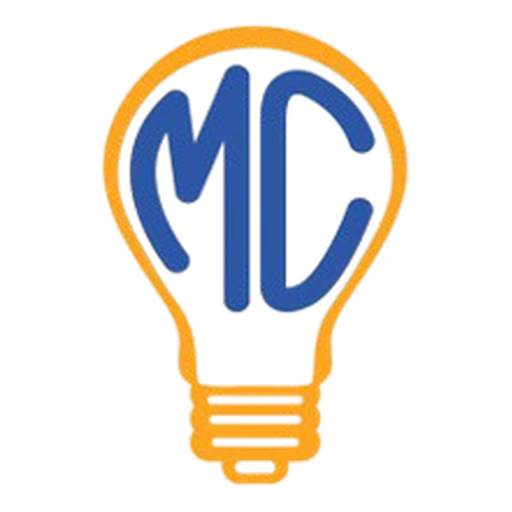
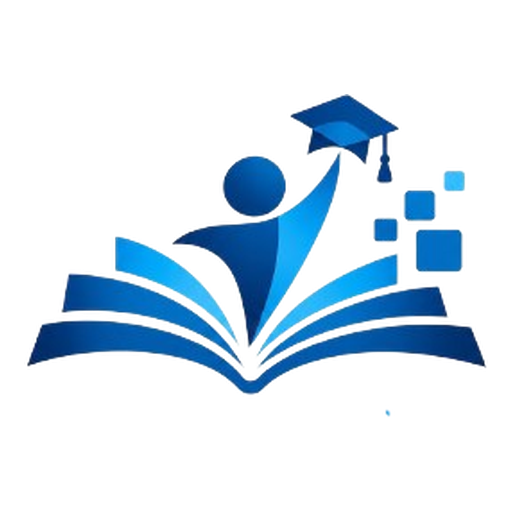
feat: implemtando compomentes da empresa

diff --git a/src/app/page.tsx b/src/app/page.tsx
@@ -14,14 +14,44 @@ const clients = [
   "Unyleya", "Unigranrio", "Faculeste", "Uniúnica",
 ];
 
+const leaders = [
+  {
+    name: "Profa. Me. Sílvia Cristina da Silva",
+    role: "CEO",
+    image: "/silvia-cristina.png",
+    alt: "Profa. Me. Sílvia Cristina da Silva",
+    lattes: "http://lattes.cnpq.br/5911573541377266",
+    summary: "Mestre em Educação, Ambiente e Sociedade pela UNIFAE e especialista em Docência do Ensino Superior, Direito/Educação e Educação a Distância.",
+    biography: "Participou de atividades docentes e discentes no Mestrado em Análise do Discurso da Universidade Federal de Buenos Aires (UBA). É especialista pela Faculdade Campos Elíseos (FCE) e graduada em Ciências Jurídicas e Sociais pela UNIFEOB.",
+  },
+  {
+    name: "Nathalia Ellen Silva Bezerra",
+    role: "Assistente",
+    image: "/nathalia-ellen.png",
+    alt: "Nathalia Ellen Silva Bezerra",
+    lattes: "http://lattes.cnpq.br/2051168044689617",
+    summary: "Mestre em Administração pela UFCG, especialista em Direito do Trabalho e Previdenciário e bacharela em Direito pela UEPB.",
+    biography: "É especialista em Direito do Trabalho e Previdenciário pelo Centro Universitário de Patos. Atuou como conciliadora jurídica no CEJUSC V do Tribunal de Justiça da Paraíba, em Campina Grande. Também atua como advogada e integrou a Comissão de Direito Previdenciário da OAB em Campina Grande. Tem interesse nas áreas de Direito Ambiental, Direitos Humanos, Direito Civil, do Trabalho, do Consumidor, Previdenciário, Constitucional e Administrativo.",
+  },
+  {
+    name: "Ellen Thaynna Mara Delgado Brandão",
+    role: "Assistente",
+    image: "/ellen-thaynna.png",
+    alt: "Ellen Thaynna Mara Delgado Brandão",
+    lattes: "http://lattes.cnpq.br/7271695351178376",
+    summary: "Professora conteudista, graduada em Direito, pós-graduada em Docência do Ensino Superior e Gestão Escolar, com experiência em educação e produção de videoaulas.",
+    biography: "Graduou-se em Direito pela Faculdade de Ciências Sociais Aplicadas em 2017, concluiu pós-graduações em Docência do Ensino Superior e Gestão Escolar em 2026 e iniciou Licenciatura em Letras — Português no mesmo ano. Atua com ênfase em Direito Penal, Previdenciário, Constitucional, Trabalhista, Administrativo e Empresarial, além da Educação. Desde 2022, participa de projetos de gravação de videoaulas para cursos de pós-graduação, incluindo Unyleya, Faculeste e PetroShore Compliance Business School. Estuda Inteligência Artificial continuamente desde 2024, com interesse em seus impactos nos processos educacionais, profissionais e organizacionais. Também se dedica à gestão e ao desenvolvimento de pessoas.",
+  },
+];
+
 export default function HomePage() {
   return (
     <>
       <div className="topbar"><div className="container topbar-inner"><span className="topbar-desktop"><i /> Produção de conteúdo educacional desde 2016</span><span className="topbar-mobile"><i /> Conteúdo educacional desde 2016</span><span className="topbar-location">São João da Boa Vista · SP</span></div></div>
       <header className="site-header">
         <div className="container header-inner">
-          <a href="#inicio" className="brand" aria-label="Modular Criativo, início"><Image src="/logo-modular-criativo.png" alt="Modular Criativo" width={500} height={288} priority /></a>
-          <nav aria-label="Navegação principal"><a href="#sobre">Quem somos</a><a href="#materiais">O que produzimos</a><a href="#parceiros">Parceiros</a></nav>
+          <a href="#inicio" className="brand" aria-label="Modular Criativo, início"><Image src="/logo-principal.png" alt="Modular Criativo" width={414} height={216} priority /></a>
+          <nav aria-label="Navegação principal"><a href="#sobre">Quem somos</a><a href="#materiais">O que produzimos</a><a href="#lideranca">Liderança</a><a href="#parceiros">Parceiros</a></nav>
           <a className="button button--outline" href="#contato">Fale com a gente <span>↗</span></a>
         </div>
       </header>
@@ -63,11 +93,21 @@ export default function HomePage() {
           <div className="container partners-layout"><div className="partners-intro"><p className="eyebrow"><span /> CONFIANÇA QUE SE CONSTRÓI JUNTO</p><h2>Parcerias que<br /><em>ensinam e inspiram.</em></h2><p>Trabalhamos lado a lado com instituições para desenvolver soluções alinhadas às suas necessidades, com diálogo, transparência e compromisso.</p><a href="#contato" className="under-link">Seja nosso parceiro <span>→</span></a></div><div className="client-panel"><div className="client-panel-top"><span>ALGUMAS INSTITUIÇÕES PARCEIRAS</span><b>01 — 13</b></div><div className="client-grid">{clients.map((client, i) => <div className="client-name" key={client}><span>{String(i + 1).padStart(2, "0")}</span>{client}</div>)}</div></div></div>
         </section>
 
-        <section className="leadership"><div className="container leadership-inner"><div className="leadership-brand"><Image src="/logo-modular.png" alt="Logo Modular Criativo" width={168} height={238} /></div><div><p className="eyebrow eyebrow--light"><span /> LIDERANÇA COM PROPÓSITO</p><h2>Educação, pesquisa<br />e compromisso social.</h2><p className="leader-name">Me. Silvia Cristina da Silva</p><p className="leader-bio">Mestre interdisciplinar em Educação, Ambiente e Sociedade pela UNIFAE, especialista em Educação a Distância e Docência do Ensino Superior, e graduada em Ciências Jurídicas e Sociais pela UNIFEB.</p></div><div className="leadership-mark">MODULAR<br /><b>CRIATIVO</b></div></div></section>
+        <section className="team section-pad" id="lideranca" aria-labelledby="team-title">
+          <div className="container">
+            <div className="team-heading"><div><p className="eyebrow"><span /> NOSSA LIDERANÇA</p><h2 id="team-title">Pessoas que dão forma<br /><em>à Modular Criativo.</em></h2></div><p>Conheça quem conduz e apoia a criação de experiências educacionais.</p></div>
+            <div className="team-grid">
+              {leaders.map((leader) => <article className="team-card" key={leader.name}>
+                <div className="team-photo"><Image src={leader.image} alt={leader.alt} fill sizes="(max-width: 640px) 88vw, (max-width: 900px) 44vw, 360px" style={{ objectPosition: "center 25%" }} /></div>
+                <div className="team-card-body"><span className="team-role">{leader.role}</span><h3>{leader.name}</h3><p>{leader.summary}</p><details><summary>Conheça a trajetória</summary><p>{leader.biography}</p></details><a className="team-lattes" href={leader.lattes} target="_blank" rel="noreferrer">Currículo Lattes <span>↗</span></a></div>
+              </article>)}
+            </div>
+          </div>
+        </section>
 
-        <section className="contact section-pad" id="contato"><div className="container contact-inner"><div><p className="eyebrow"><span /> VAMOS CONVERSAR?</p><h2>Seu próximo projeto<br />começa com uma <em>boa ideia.</em></h2><p>Conte o que você precisa. Nossa equipe está pronta para construir uma solução educacional junto com você.</p></div><div className="contact-action"><span className="contact-city">São João da Boa Vista · São Paulo</span><a href="mailto:modularcriativo@gmail.com">modularcriativo@gmail.com</a><a href="mailto:silviaadvbidi@gmail.com">silviaadvbidi@gmail.com</a><a className="contact-phone" href="https://wa.me/5519995829872" target="_blank" rel="noopener noreferrer" aria-label="Abrir conversa com a Modular Criativo no WhatsApp"><svg aria-hidden="true" viewBox="0 0 32 32"><path fill="currentColor" d="M16.04 2.67A13.28 13.28 0 0 0 4.62 22.73L2.7 29.33l6.75-1.77a13.28 13.28 0 1 0 6.59-24.89Zm0 24.15c-1.96 0-3.89-.53-5.57-1.54l-.4-.24-3.99 1.05 1.07-3.89-.26-.41a10.86 10.86 0 1 1 9.15 5.03Zm5.96-8.14c-.33-.16-1.95-.96-2.25-1.07-.3-.11-.52-.16-.74.16-.22.33-.85 1.07-1.04 1.29-.19.22-.38.24-.71.08-.33-.16-1.39-.51-2.64-1.63-.98-.87-1.64-1.95-1.83-2.28-.19-.33-.02-.51.14-.67.15-.15.33-.38.49-.57.16-.19.22-.33.33-.55.11-.22.05-.41-.03-.57-.08-.16-.74-1.78-1.01-2.44-.27-.65-.54-.56-.74-.57h-.63c-.22 0-.57.08-.87.41-.3.33-1.15 1.12-1.15 2.73s1.18 3.17 1.34 3.39c.16.22 2.32 3.54 5.62 4.96.79.34 1.41.55 1.89.7.79.25 1.51.22 2.08.13.63-.09 1.95-.8 2.23-1.56.27-.77.27-1.43.19-1.56-.08-.13-.3-.22-.63-.38Z" /></svg><span>(19) 99582-9872</span></a></div></div></section>
+        <section className="contact section-pad" id="contato"><div className="container contact-inner"><div><p className="eyebrow"><span /> VAMOS CONVERSAR?</p><h2>Seu próximo projeto<br />começa com uma <em>boa ideia.</em></h2><p>Conte o que você precisa. Nossa equipe está pronta para construir uma solução educacional junto com você.</p></div><div className="contact-action"><span className="contact-city">São João da Boa Vista · São Paulo</span><a href="mailto:modularcriativo@gmail.com">modularcriativo@gmail.com</a><a href="mailto:silviaadvbidi@gmail.com">silviaadvbidi@gmail.com</a><a className="contact-phone" href="https://wa.me/5519995829872" target="_blank" rel="noopener noreferrer" aria-label="Abrir conversa com a Modular Criativo no WhatsApp"><svg aria-hidden="true" viewBox="0 0 32 32"><path fill="currentColor" d="M16.04 2.67A13.28 13.28 0 0 0 4.62 22.73L2.7 29.33l6.75-1.77a13.28 13.28 0 1 0 6.59-24.89Zm0 24.15c-1.96 0-3.89-.53-5.57-1.54l-.4-.24-3.99 1.05 1.07-3.89-.26-.41a10.86 10.86 0 1 1 9.15 5.03Zm5.96-8.14c-.33-.16-1.95-.96-2.25-1.07-.3-.11-.52-.16-.74.16-.22.33-.85 1.07-1.04 1.29-.19.22-.38.24-.71.08-.33-.16-1.39-.51-2.64-1.63-.98-.87-1.64-1.95-1.83-2.28-.19-.33-.02-.51.14-.67.15-.15.33-.38.49-.57.16-.19.22-.33.33-.55.11-.22.05-.41-.03-.57-.08-.16-.74-1.78-1.01-2.44-.27-.65-.54-.56-.74-.57h-.63c-.22 0-.57.08-.87.41-.3.33-1.15 1.12-1.15 2.73s1.18 3.17 1.34 3.39c.16.22 2.32 3.54 5.62 4.96.79.34 1.41.55 1.89.7.79.25 1.51.22 2.08.13.63-.09 1.95-.8 2.23-1.56.27-.77.27-1.43.19-1.56-.08-.13-.3-.22-.63-.38Z" /></svg><span>(19) 99582-9872</span></a><a className="contact-instagram" href="https://www.instagram.com/modularcriativo/" target="_blank" rel="noreferrer"><svg aria-hidden="true" viewBox="0 0 24 24"><rect x="3" y="3" width="18" height="18" rx="5" /><circle cx="12" cy="12" r="4" /><circle cx="18" cy="6" r="1" className="instagram-dot" /></svg><span>@modularcriativo</span></a></div></div></section>
       </main>
-      <footer className="site-footer"><div className="container footer-main"><a href="#inicio" className="footer-logo"><Image src="/logo-modular-criativo.png" alt="Modular Criativo" width={500} height={288} /></a><p>Conteúdo com propósito.<br />Conhecimento em movimento.</p><div className="footer-links"><a href="#sobre">Quem somos</a><a href="#materiais">O que produzimos</a><a href="#parceiros">Parceiros</a></div><a className="back-top" href="#inicio">VOLTAR AO TOPO ↑</a></div><div className="container footer-bottom"><span>© {new Date().getFullYear()} Modular Criativo</span><span>São João da Boa Vista · SP</span></div></footer>
+      <footer className="site-footer"><div className="container footer-main"><a href="#inicio" className="footer-logo"><Image src="/logo-principal.png" alt="Modular Criativo" width={414} height={216} /></a><p>Conteúdo com propósito.<br />Conhecimento em movimento.</p><div className="footer-links"><a href="#sobre">Quem somos</a><a href="#materiais">O que produzimos</a><a href="#lideranca">Liderança</a><a href="#parceiros">Parceiros</a></div><a className="back-top" href="#inicio">VOLTAR AO TOPO ↑</a></div><div className="container footer-bottom"><span>© {new Date().getFullYear()} Modular Criativo</span><span>São João da Boa Vista · SP</span></div></footer>
     </>
   );
 }

diff --git a/src/app/globals.css b/src/app/globals.css
@@ -33,3 +33,33 @@
 
 .topbar-mobile{display:none}
 @media(max-width:640px){.topbar{height:36px}.topbar-inner{justify-content:center}.topbar-inner .topbar-desktop,.topbar-inner .topbar-location{display:none!important}.topbar-inner .topbar-mobile{display:flex;align-items:center;gap:9px;font-size:14px;white-space:nowrap}.topbar-inner .topbar-mobile i{width:6px;height:6px;border-radius:50%;background:var(--orange);flex:0 0 6px}}
+
+/* Leadership profiles */
+.team{background:var(--paper)}
+.team-heading{display:flex;align-items:end;justify-content:space-between;gap:36px;margin-bottom:38px}
+.team-heading .eyebrow{margin-bottom:18px}
+.team-heading h2{font:700 clamp(38px,4.2vw,54px)/1.08 var(--display);letter-spacing:-.055em;margin:0}
+.team-heading h2 em{font-style:normal;color:var(--blue)}
+.team-heading>p{max-width:310px;margin:0 0 5px;color:var(--muted);font-size:16px;line-height:1.7}
+.team-grid{display:grid;grid-template-columns:repeat(3,minmax(0,1fr));gap:18px;align-items:stretch}
+.team-card{display:flex;flex-direction:column;min-width:0;background:#fff;border:1px solid #e3ebf0;box-shadow:0 10px 28px rgba(23,59,112,.045)}
+.team-photo{position:relative;overflow:hidden;aspect-ratio:4/3;background:#e7edf1}
+.team-photo img{object-fit:cover;transition:transform .4s ease}
+.team-card:hover .team-photo img{transform:scale(1.025)}
+.team-card-body{display:flex;flex-direction:column;align-items:flex-start;flex:1;padding:22px}
+.team-role{display:inline-flex;align-items:center;min-height:28px;padding:0 10px;background:#e6f4fa;color:var(--blue-deep);font-size:14px;font-weight:700;letter-spacing:.04em}
+.team-card h3{font:700 21px/1.22 var(--display);letter-spacing:-.035em;color:var(--ink);margin:15px 0 10px}
+.team-card-body>p{margin:0;color:var(--muted);font-size:14px;line-height:1.65}
+.team-card details{width:100%;margin-top:16px;padding-top:13px;border-top:1px solid var(--line)}
+.team-card details summary{cursor:pointer;color:var(--blue-deep);font-size:14px;font-weight:700;list-style:none}
+.team-card details summary::-webkit-details-marker{display:none}
+.team-card details summary:after{content:"+";float:right;font-size:18px;line-height:1}
+.team-card details[open] summary:after{content:"−"}
+.team-card details p{margin:11px 0 0;color:var(--muted);font-size:14px;line-height:1.7}
+.team-lattes{display:inline-flex;align-items:center;gap:8px;margin-top:auto;padding-top:18px;color:var(--blue-deep);font-size:14px;font-weight:700}
+.team-lattes span{font-size:18px}
+.contact-instagram{display:inline-flex;align-items:center;gap:9px;font-size:16px;font-weight:700;color:#a02b70}
+.contact-instagram svg{width:22px;height:22px;fill:none;stroke:currentColor;stroke-width:1.8}
+.contact-instagram .instagram-dot{fill:currentColor;stroke:none}
+@media(max-width:900px){.team-grid{grid-template-columns:repeat(2,minmax(0,1fr))}.team-card:last-child{grid-column:1/-1;width:calc(50% - 9px);justify-self:center}.team-photo{aspect-ratio:5/4}}
+@media(max-width:640px){.team-heading{display:block;margin-bottom:27px}.team-heading h2{font-size:39px}.team-heading>p{margin-top:15px}.team-grid{grid-template-columns:1fr;gap:14px}.team-card:last-child{grid-column:auto;width:auto;justify-self:stretch}.team-photo{aspect-ratio:16/10}.team-card-body{padding:20px}.team-card h3{font-size:21px}}
